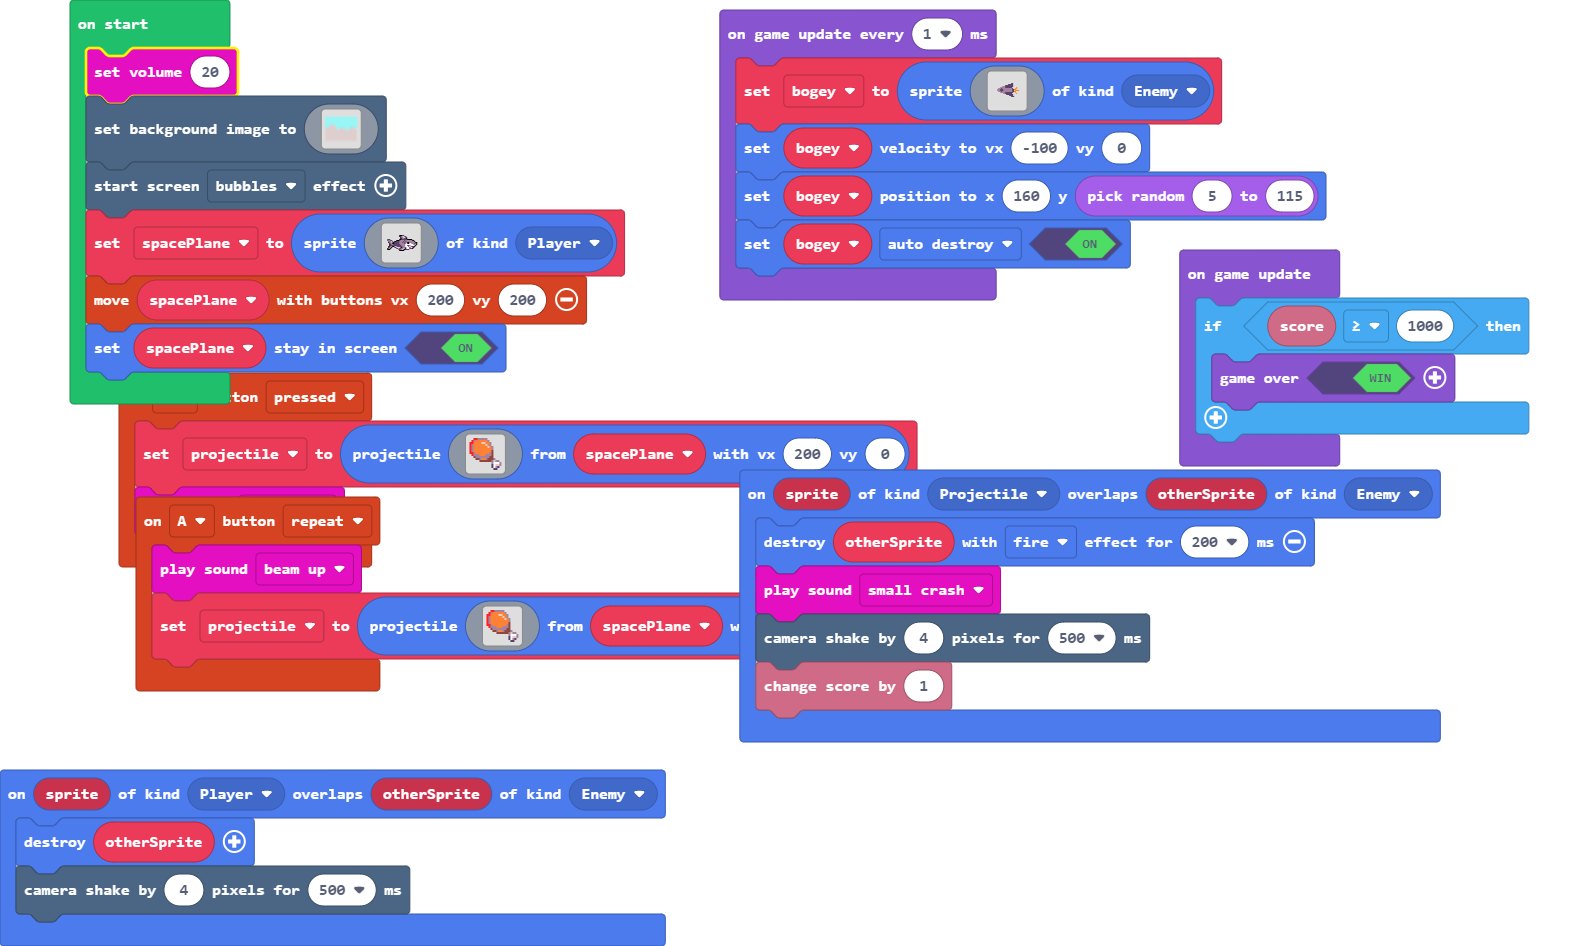
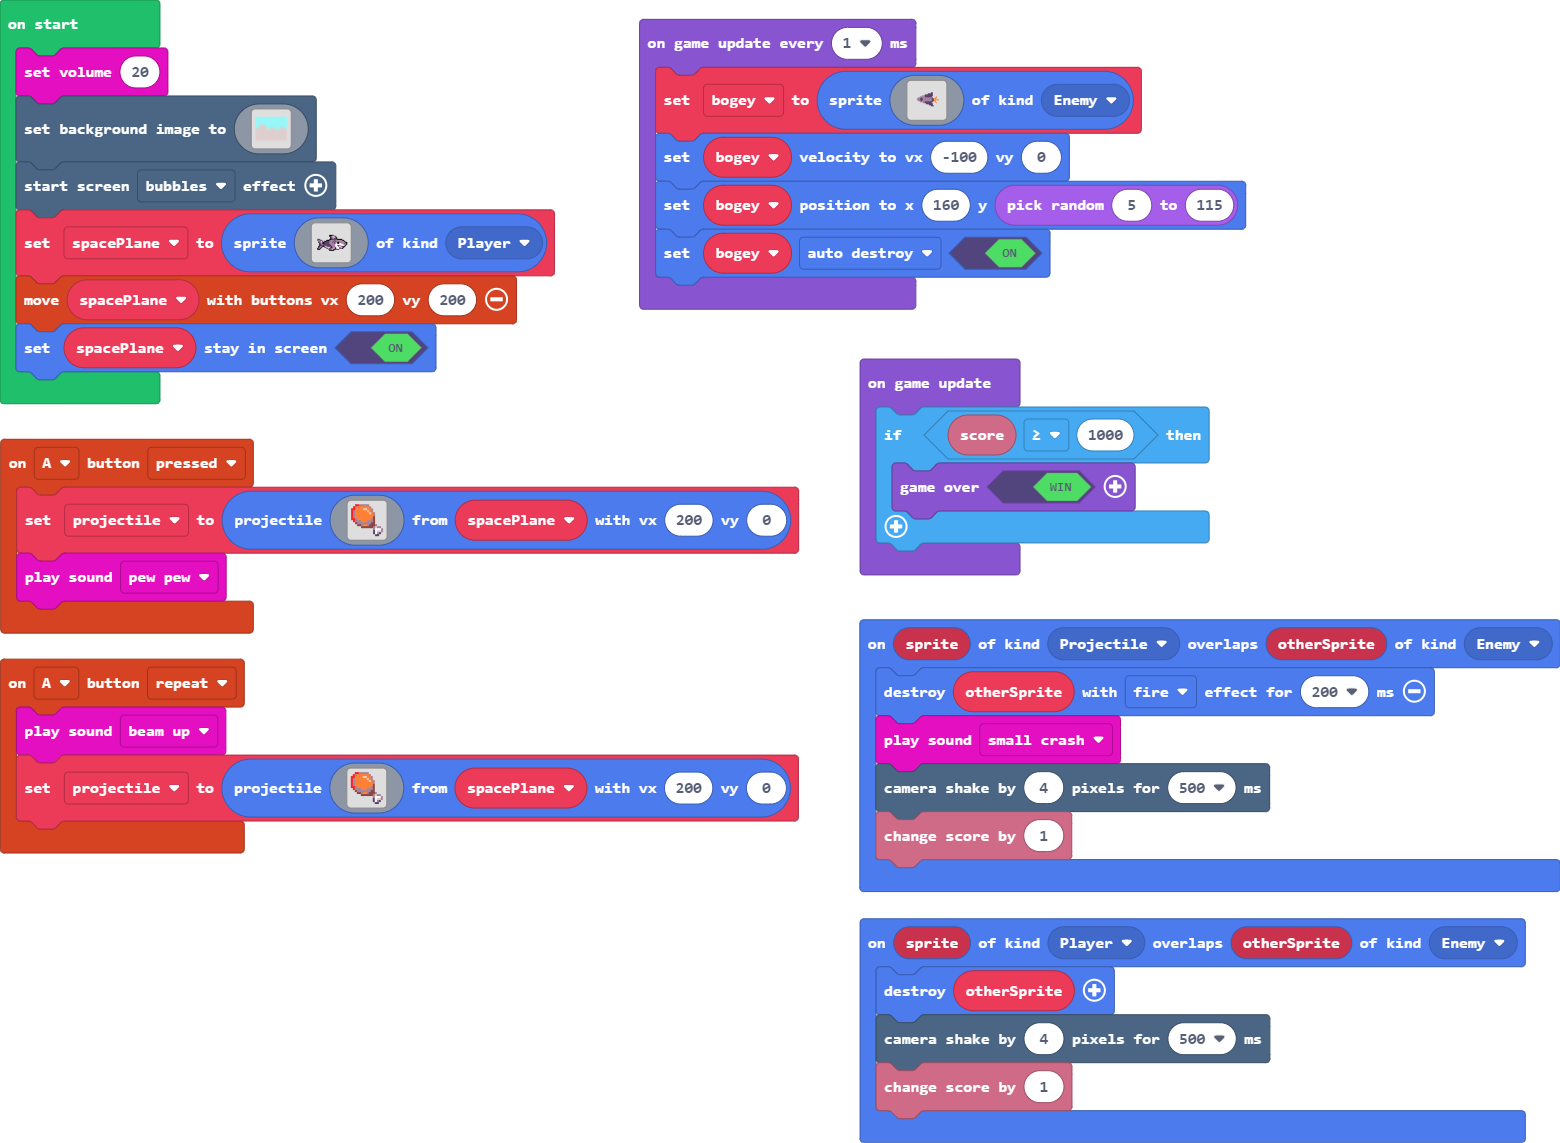
Added collison also increase the score.

diff --git a/main.ts b/main.ts
@@ -49,6 +49,7 @@ sprites.onOverlap(SpriteKind.Projectile, SpriteKind.Enemy, function (sprite, oth
 sprites.onOverlap(SpriteKind.Player, SpriteKind.Enemy, function (sprite, otherSprite) {
     otherSprite.destroy()
     scene.cameraShake(4, 500)
+    info.changeScoreBy(1)
 })
 let bogey: Sprite = null
 let projectile: Sprite = null
